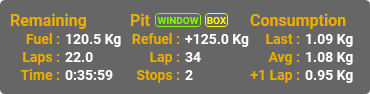
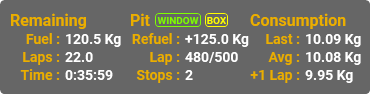
Added EstimatedTotalLaps to the PitLap field.

diff --git a/Plugin/Modules/FuelCalc.cs b/Plugin/Modules/FuelCalc.cs
@@ -91,6 +91,7 @@ namespace benofficial2.Plugin
         public double ConsumptionLastLap { get; internal set; } = 0.0;
         public double ConsumptionTargetForExtraLap { get; internal set; } = 0.0;
         public double RemainingLaps { get; internal set; } = 0.0;
+        public int EstimatedTotalLaps { get; internal set; } = 0;
         public int PitLap { get; internal set; } = 0;
         public bool PitIndicatorOn { get; internal set; } = false;
         public int PitWindowLap { get; internal set; } = 0;
@@ -131,6 +132,7 @@ namespace benofficial2.Plugin
             plugin.AttachDelegate(name: "FuelCalc.ConsumptionLastLap", valueProvider: () => ConsumptionLastLap);
             plugin.AttachDelegate(name: "FuelCalc.ConsumptionTargetForExtraLap", valueProvider: () => ConsumptionTargetForExtraLap);
             plugin.AttachDelegate(name: "FuelCalc.RemainingLaps", valueProvider: () => RemainingLaps);
+            plugin.AttachDelegate(name: "FuelCalc.EstimatedTotalLaps", valueProvider: () => EstimatedTotalLaps);
             plugin.AttachDelegate(name: "FuelCalc.PitLap", valueProvider: () => PitLap);
             plugin.AttachDelegate(name: "FuelCalc.PitIndicatorOn", valueProvider: () => PitIndicatorOn);
             plugin.AttachDelegate(name: "FuelCalc.PitWindowLap", valueProvider: () => PitWindowLap);
@@ -521,8 +523,8 @@ namespace benofficial2.Plugin
             PitLap = Math.Max(1, (int)Math.Floor(currentLapHighPrecision + RemainingLaps));
             PitIndicatorOn = _carModule.HasRefueling ? currentLapHighPrecision >= (PitLap - 1) : false;
 
-            int estimatedTotalLaps = _standingsModule.CarClasses[_standingsModule.HighlightedCarClassIdx].EstimatedTotalLaps;
-            int lapsToFinishAfterNextStop = Math.Max(0, estimatedTotalLaps - PitLap);
+            EstimatedTotalLaps = _standingsModule.CarClasses[_standingsModule.HighlightedCarClassIdx].EstimatedTotalLaps;
+            int lapsToFinishAfterNextStop = Math.Max(0, EstimatedTotalLaps - PitLap);
             if (lapsToFinishAfterNextStop > 0)
             {
                 ExtraFuelAtFinish = 0.0;
@@ -557,7 +559,7 @@ namespace benofficial2.Plugin
 
                 double maxRefuel = maxFuel * PitStopsNeeded;
                 double maxLapsAfterRefuel = Math.Max(0.0, maxRefuel / ConsumptionPerLapAvg);
-                PitWindowLap = Math.Max(1, estimatedTotalLaps - (int)Math.Floor(maxLapsAfterRefuel));
+                PitWindowLap = Math.Max(1, EstimatedTotalLaps - (int)Math.Floor(maxLapsAfterRefuel));
                 PitWindowIndicatorOn = _carModule.HasRefueling ? currentLapHighPrecision >= (PitWindowLap - 1) : false;
             }
             else
@@ -567,9 +569,9 @@ namespace benofficial2.Plugin
                 PitWindowLap = 0;
                 PitWindowIndicatorOn = false;
 
-                if (estimatedTotalLaps > 0)
+                if (EstimatedTotalLaps > 0)
                 {
-                    double lapsToFinish = Math.Max(0.0, estimatedTotalLaps - currentLapHighPrecision);
+                    double lapsToFinish = Math.Max(0.0, EstimatedTotalLaps - currentLapHighPrecision);
                     double fuelToFinish = lapsToFinish * ConsumptionPerLapAvg;
 
                     ExtraFuelAtFinish = Math.Max(0.0, Fuel - fuelToFinish);
@@ -587,6 +589,7 @@ namespace benofficial2.Plugin
 
         private void BlankFuelCalculations()
         {
+            EstimatedTotalLaps = 0;
             ConsumptionTargetForExtraLap = 0.0;
             RemainingLaps = 0.0;
             PitLap = 0;
